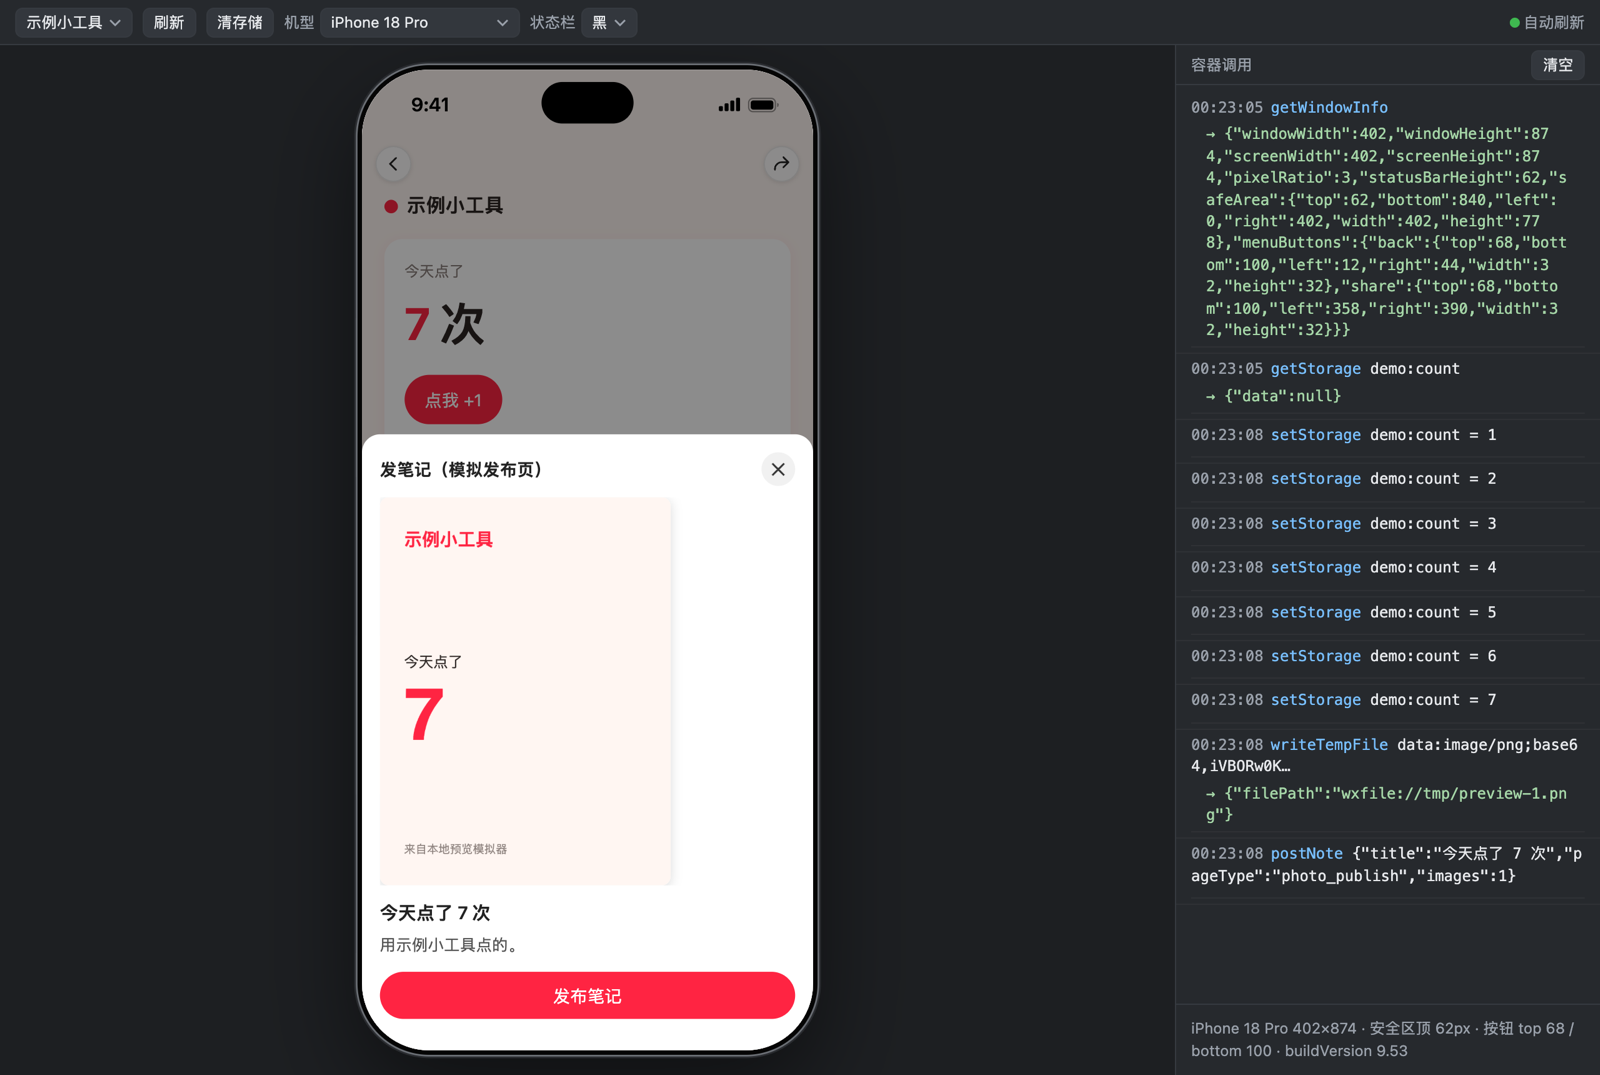
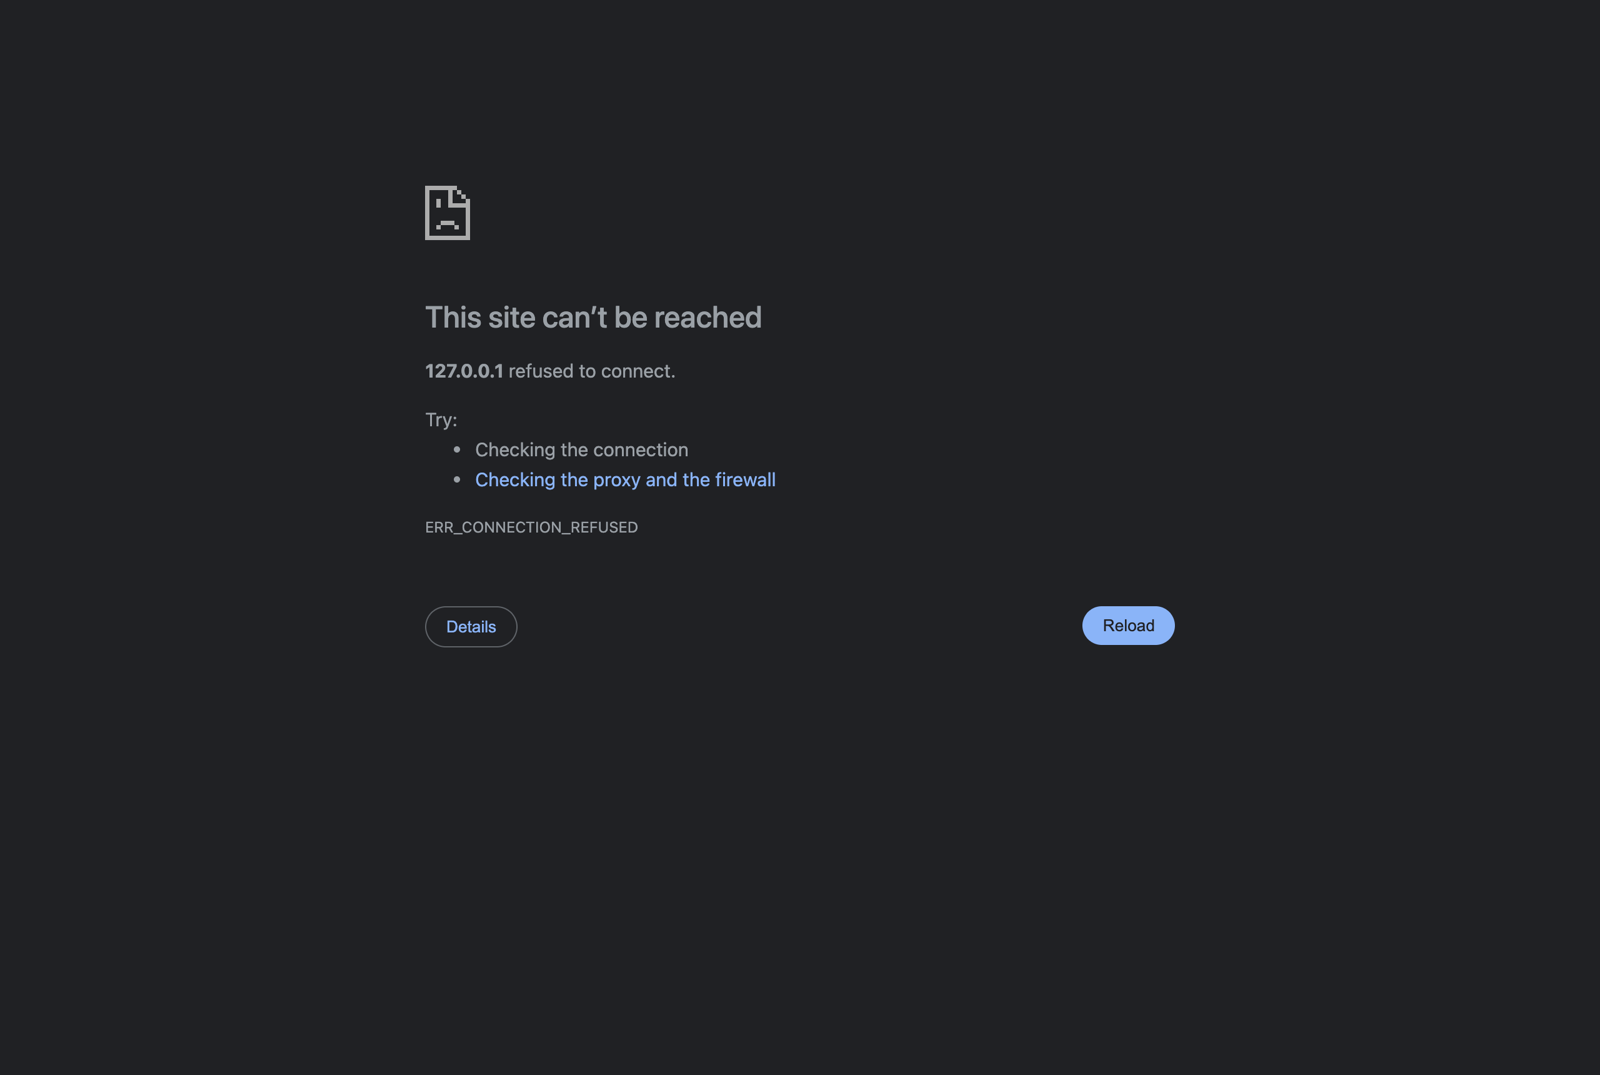
按钮照真机改成灰色半透明圆底白图标，补上“我的”按钮，menuButtons 增加 me
Claude-Session: https://claude.ai/code/session_01Fx1mTHFfvPh46uPnx38QSk

diff --git a/assets/shell.html b/assets/shell.html
@@ -32,8 +32,9 @@ iframe{display:block;border:0;width:100%;height:100%;background:#fff}
 .status.light{color:#fff}.status.dark{color:#000}
 .status .icons{display:flex;gap:7px;align-items:center}
 .island{position:absolute;left:50%;transform:translateX(-50%);background:#000;z-index:6;pointer-events:none}
-.capsule{position:absolute;z-index:7;display:flex;align-items:center;justify-content:center;border-radius:50%;background:rgba(255,255,255,.88);border:.5px solid rgba(0,0,0,.08);box-shadow:0 1px 4px rgba(0,0,0,.12);cursor:pointer;color:#222}
-.capsule svg{width:18px;height:18px}
+/* 照真机：灰色半透明圆底 + 白色图标，透出底下的内容 */
+.capsule{position:absolute;z-index:7;display:flex;align-items:center;justify-content:center;border-radius:50%;background:rgba(40,40,40,.32);-webkit-backdrop-filter:blur(12px) saturate(140%);backdrop-filter:blur(12px) saturate(140%);cursor:pointer;color:#fff}
+.capsule svg{width:19px;height:19px}
 .home-ind{position:absolute;bottom:8px;left:50%;transform:translateX(-50%);width:134px;height:5px;border-radius:3px;background:rgba(0,0,0,.35);pointer-events:none;z-index:5}
 .toast{position:absolute;left:50%;top:45%;transform:translate(-50%,-50%);background:rgba(0,0,0,.78);color:#fff;padding:10px 16px;border-radius:10px;font-size:14px;z-index:20;pointer-events:none;opacity:0;transition:opacity .2s;white-space:nowrap}
 .toast.show{opacity:1}
@@ -80,8 +81,9 @@ aside .h{display:flex;justify-content:space-between;align-items:center;height:32
           <svg width="19" height="12" viewBox="0 0 19 12" fill="currentColor" aria-hidden="true"><rect x="0" y="7.5" width="3.6" height="4.5" rx="1.1"/><rect x="5.1" y="5" width="3.6" height="7" rx="1.1"/><rect x="10.2" y="2.5" width="3.6" height="9.5" rx="1.1"/><rect x="15.3" y="0" width="3.6" height="12" rx="1.1"/></svg>
           <svg width="28" height="13" viewBox="0 0 28 13" aria-hidden="true"><rect x=".6" y=".6" width="23.8" height="11.8" rx="3.8" fill="none" stroke="currentColor" stroke-width="1.2" opacity=".4"/><rect x="2.4" y="2.4" width="20.2" height="8.2" rx="2.3" fill="currentColor"/><path d="M26 4.6v3.8a2 2 0 0 0 0-3.8z" fill="currentColor" opacity=".45"/></svg>
         </span></div>
-        <div class="capsule" id="btn-back" title="返回（模拟）"><svg viewBox="0 0 24 24" fill="none" stroke="currentColor" stroke-width="2.2" stroke-linecap="round" stroke-linejoin="round"><path d="M15 5l-7 7 7 7"/></svg></div>
-        <div class="capsule" id="btn-share" title="分享（模拟）"><svg viewBox="0 0 24 24" fill="none" stroke="currentColor" stroke-width="2" stroke-linecap="round" stroke-linejoin="round"><path d="M14 4l6 6-6 6"/><path d="M20 10h-8a8 8 0 0 0-8 8v1"/></svg></div>
+        <div class="capsule" id="btn-back" title="返回（模拟）"><svg viewBox="0 0 24 24" fill="none" stroke="currentColor" stroke-width="2" stroke-linecap="round" stroke-linejoin="round"><path d="M14.5 5.5L8 12l6.5 6.5"/></svg></div>
+        <div class="capsule" id="btn-me" title="我的（模拟）"><svg viewBox="0 0 24 24" fill="none" stroke="currentColor" stroke-width="1.7" stroke-linecap="round"><circle cx="12" cy="8.5" r="3.6"/><path d="M5 19.5c.8-3.4 3.6-5.3 7-5.3s6.2 1.9 7 5.3"/></svg></div>
+        <div class="capsule" id="btn-share" title="分享（模拟）"><svg viewBox="0 0 24 24" fill="currentColor"><path d="M13.2 4.6a.8.8 0 0 1 1.3-.6l6.7 6.4a.8.8 0 0 1 0 1.2l-6.7 6.4a.8.8 0 0 1-1.3-.6v-3.2c-3.9 0-6.8 1.2-9 4.1-.3.4-.9.1-.8-.4.9-5.2 4.2-9 9.8-9.8V4.6z"/></svg></div>
         <div class="home-ind" id="homeInd"></div>
         <div class="toast" id="toast"></div>
         <div class="sheet" id="sheet"><div class="box"><div class="head"><span id="sheetTitle"></span><button id="sheetClose" type="button">✕</button></div><div id="sheetBody"></div></div></div>
@@ -122,7 +124,9 @@ function dev() { return DEVICES[state.device]; }
 function rects() {
   var d = dev(), top = d.safeTop + BTN_GAP;
   function r(left) { return { top: top, bottom: top + BTN, left: left, right: left + BTN, width: BTN, height: BTN }; }
-  return { back: r(BTN_SIDE), share: r(d.w - BTN_SIDE - BTN) };
+  // 右侧两个：我的、分享，中间隔 10
+  var shareLeft = d.w - BTN_SIDE - BTN;
+  return { back: r(BTN_SIDE), me: r(shareLeft - 10 - BTN), share: r(shareLeft) };
 }
 
 window.__shell = {
@@ -180,6 +184,7 @@ function closeSheet() { $('sheet').classList.remove('show'); }
 $('sheetClose').onclick = closeSheet;
 $('sheet').onclick = function (e) { if (e.target === this) closeSheet(); };
 $('btn-back').onclick = function () { toast('返回：真机会退出小工具'); window.__shell.log('[按钮] 返回', null, '模拟'); };
+$('btn-me').onclick = function () { toast('我的：真机会打开个人页'); window.__shell.log('[按钮] 我的', null, '模拟'); };
 $('btn-share').onclick = function () { toast('分享：真机会弹出分享面板'); window.__shell.log('[按钮] 分享', null, '模拟'); };
 
 function layout() {
@@ -195,7 +200,7 @@ function layout() {
   ist.display = isl ? '' : 'none';
   if (isl) { ist.width = isl.w + 'px'; ist.height = isl.h + 'px'; ist.top = isl.top + 'px'; ist.borderRadius = d.notch ? '0 0 20px 20px' : isl.h / 2 + 'px'; }
   $('homeInd').style.display = d.safeBottom >= 30 ? '' : 'none';
-  [['btn-back', r.back], ['btn-share', r.share]].forEach(function (x) {
+  [['btn-back', r.back], ['btn-me', r.me], ['btn-share', r.share]].forEach(function (x) {
     var el = $(x[0]), b = x[1];
     el.style.top = b.top + 'px'; el.style.left = b.left + 'px'; el.style.width = b.width + 'px'; el.style.height = b.height + 'px';
   });

diff --git a/SKILL.md b/SKILL.md
@@ -28,7 +28,7 @@ node "<SKILL_DIR>/scripts/preview.js" "<小工具目录或父目录>" --open
 
 - **顶栏**：小工具切换、刷新、清存储、机型、状态栏黑/白字；最右的圆点绿色表示已连上预览服务（改文件会自动刷新），红色表示服务断了。
 - **手机外框**：默认 iPhone 18 Pro（小灵动岛、超窄边框），另有 18 Pro Max、16/15、14/13 刘海、SE、Android 两档。
-- **小红书按钮**：左上返回、右上分享，画在小工具上层，点击只弹提示。`getWindowInfo().menuButtons` 返回的就是这两个按钮在画面里的矩形（`back`、`share`），顶部避让逻辑可以直接看效果。
+- **小红书按钮**：照真机画成灰色半透明圆底白图标，左上返回，右上“我的”和分享，浮在小工具上层，点击只弹提示。`getWindowInfo().menuButtons` 返回的就是这三个按钮在画面里的矩形（`back`、`me`、`share`），顶部避让逻辑可以直接看效果。
 - **模拟 window.xhs**：`launchOptions.miniToolEnv.buildVersion`、`getLaunchOptions`、`getWindowInfo`、`getStorage/setStorage/removeStorage`、`writeTempFile`、`saveImageToPhotosAlbum`（弹出保存的图片）、`postNote`（弹出模拟发布页，展示标题/正文/图片，标题超 20 字报错）。
 - **右侧调用日志**：每次容器调用和返回值；JS 报错、未处理的 Promise 拒绝，以及调用容器禁用能力（`window.open`、`prompt`、剪贴板、跨域 fetch、外链/下载链接）会标红。
 

diff --git a/README.md b/README.md
@@ -7,7 +7,7 @@
 ## 能做什么
 
 - **手机外框**：默认 iPhone 18 Pro（小灵动岛、超窄边框），还有 18 Pro Max、16/15、14/13 刘海、SE、Android 两档；状态栏黑字/白字可切。
-- **小红书的返回、分享按钮**：画在小工具上层。`getWindowInfo().menuButtons` 返回的就是这两个按钮的位置，顶部要不要让开、让多少，一眼就能看出来。
+- **小红书的返回、“我的”、分享按钮**：照真机画成灰色半透明圆底白图标，浮在小工具上层。`getWindowInfo().menuButtons` 返回的就是这三个按钮的位置（`back`、`me`、`share`），顶部要不要让开、让多少，一眼就能看出来。
 - **模拟 `window.xhs`**：`getWindowInfo`、`getLaunchOptions`、`getStorage` / `setStorage` / `removeStorage`、`writeTempFile`、`saveImageToPhotosAlbum`（弹出保存的图）、`postNote`（弹出模拟发布页，标题超 20 字会报错）。
 - **调用日志**：右侧列出每次容器调用和返回值。JS 报错、未处理的 Promise 拒绝，以及容器里用不了的能力（`window.open`、`prompt`、剪贴板、跨域 fetch、外链和下载链接）会标红。
 - **自动刷新**：改了文件，手机画面自动重新加载。存储会保留，“清存储”可以从头再来。
